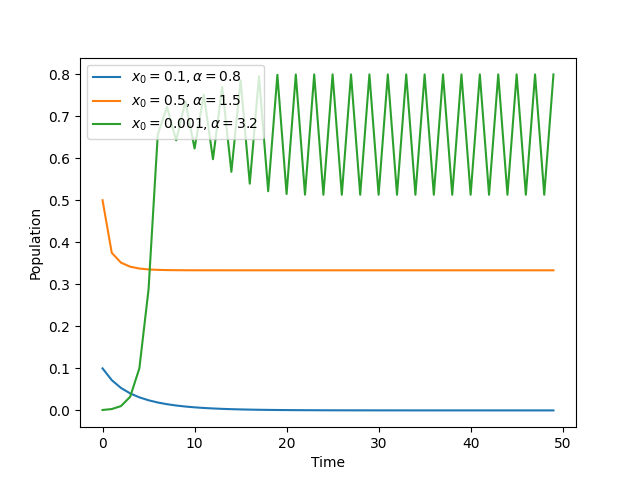
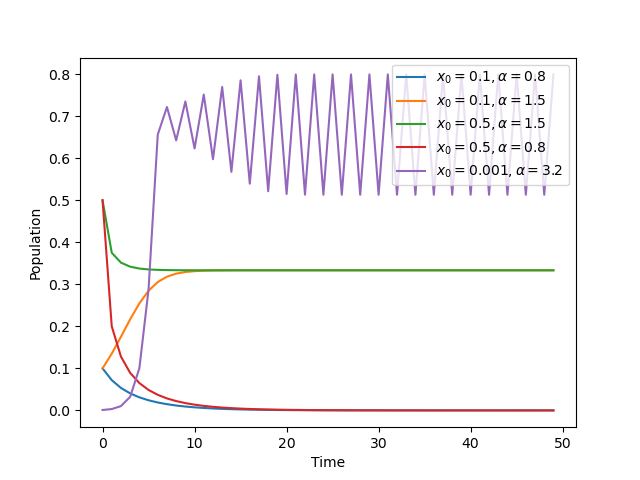
Added two more plots

diff --git a/Assignment-1/q3.py b/Assignment-1/q3.py
@@ -14,7 +14,9 @@ def generate(x0: float, alpha: float, generations: int = 50) -> list[float]:
 
 if __name__ == "__main__":
     plt.plot(generate(x0=0.1, alpha=0.8), label=r"$x_0 = 0.1, \alpha=0.8$")
+    plt.plot(generate(x0=0.1, alpha=1.5), label=r"$x_0 = 0.1, \alpha=1.5$")
     plt.plot(generate(x0=0.5, alpha=1.5), label=r"$x_0 = 0.5, \alpha=1.5$")
+    plt.plot(generate(x0=0.5, alpha=0.8), label=r"$x_0 = 0.5, \alpha=0.8$")
     plt.plot(generate(x0=0.001, alpha=3.2), label=r"$x_0 = 0.001, \alpha=3.2$")
 
     plt.xlabel("Time")
